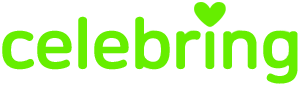
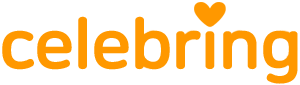
#2 셀럽 페이지 1차

Changed region(s): [[0.0, 0.1882, 1.0, 0.9882], [0.63, 0.0235, 0.78, 0.3294]]

diff --git a/src/pages/Celeb.js b/src/pages/Celeb.js
@@ -1,0 +1,151 @@
+import React, { useEffect, useState } from 'react';
+
+import { CelebAvatar } from '../components/CelebItem';
+import { Anchor, Tabs } from 'antd';
+
+const Celeb = (props) => {
+    const topRef = React.useRef(null);
+    const [targetOffset, setTargetOffset] = useState();
+    useEffect(() => {
+        setTargetOffset(topRef.current?.clientHeight);
+    }, []);
+
+    const celebs = props.list ? props.list : [
+        {
+            url:'https://pbs.twimg.com/profile_images/912222837938589697/_OWluI2j_400x400.jpg',
+            name: '비투비',
+        }, 
+        {
+            url:'https://pbs.twimg.com/media/FufPaNIWwAMmApz?format=jpg',
+            name: '육성재',
+        }, 
+        {
+            url:'https://pbs.twimg.com/profile_images/912222837938589697/_OWluI2j_400x400.jpg',
+            name: '비투비',
+        }, 
+        {
+            url:'https://pbs.twimg.com/media/FufPaNIWwAMmApz?format=jpg',
+            name: '육성재',
+        }, 
+        {
+            url:'https://pbs.twimg.com/profile_images/912222837938589697/_OWluI2j_400x400.jpg',
+            name: '비투비',
+        }, 
+        {
+            url:'https://pbs.twimg.com/media/FufPaNIWwAMmApz?format=jpg',
+            name: '육성재',
+        }, 
+    ];
+
+    const anchorItems = [
+        {
+            key: '1',
+            href: '#1',
+            title: 'ㄱ',
+        },
+        {
+            key: '2',
+            href: '#2',
+            title: 'ㄴ',
+        },
+        {
+            key: '3',
+            href: '#3',
+            title: 'ㄷ',
+        },
+        {
+            key: '4',
+            href: '#4',
+            title: 'ㄹ',
+        },
+        {
+            key: '5',
+            href: '#5',
+            title: 'ㅁ',
+        },
+        {
+            key: '6',
+            href: '#6',
+            title: 'ㅂ',
+        }
+    ];
+
+    const tabItems = [
+        {
+            key: 'group',
+            label: '그룹',
+            children: 
+                <React.Fragment>
+                    <div style={{padding: 20}}>
+                        <Anchor 
+                            direction="horizontal" 
+                            items={anchorItems} 
+                            offsetTop={50}
+                            targetOffset={targetOffset}
+                            style={{paddingTop: 30, background: '#fff'}}/>
+                    </div>
+                    <div>
+                        <div className="celeb-items" id="1">
+                            {celebs.map(celeb => 
+                                <div className="celeb-item">
+                                    <CelebAvatar useLike={true} url={celeb.url} name={celeb.name}/>
+                                </div>
+                            )}
+                        </div>
+                        <div className="celeb-items" id="2">
+                            {celebs.map(celeb => 
+                                <div className="celeb-item">
+                                    <CelebAvatar useLike={true} url={celeb.url} name={celeb.name}/>
+                                </div>
+                            )}
+                        </div>
+                        <div className="celeb-items" id="3">
+                            {celebs.map(celeb => 
+                                <div className="celeb-item">
+                                    <CelebAvatar useLike={true} url={celeb.url} name={celeb.name}/>
+                                </div>
+                            )}
+                        </div>
+                        <div className="celeb-items" id="4">
+                            {celebs.map(celeb => 
+                                <div className="celeb-item">
+                                    <CelebAvatar useLike={true} url={celeb.url} name={celeb.name}/>
+                                </div>
+                            )}
+                        </div>
+                        <div className="celeb-items" id="5">
+                            {celebs.map(celeb => 
+                                <div className="celeb-item">
+                                    <CelebAvatar useLike={true} url={celeb.url} name={celeb.name}/>
+                                </div>
+                            )}
+                        </div>
+                        <div className="celeb-items" id="6">
+                            {celebs.map(celeb => 
+                                <div className="celeb-item">
+                                    <CelebAvatar useLike={true} url={celeb.url} name={celeb.name}/>
+                                </div>
+                            )}
+                        </div>
+                    </div>
+                </React.Fragment>,
+        },
+        {
+            key: 'solo',
+            label: '솔로',
+            children: '',
+        },
+    ];
+
+
+    return (
+        <div className="celeb-list-wrap">
+            <div className="celeb-title">
+                다양한 셀럽을 만나보세요
+            </div>
+            <Tabs items={tabItems} ref={topRef}/>
+        </div>
+    )
+}
+
+export default Celeb;

diff --git a/src/components/CelebItem.js b/src/components/CelebItem.js
@@ -1,18 +1,39 @@
 import React from 'react';
 
+import { HeartFilled } from '@ant-design/icons';
 import { Avatar, Rate } from 'antd';
 import { PlusOutlined, StarFilled } from '@ant-design/icons';
 import { Link } from 'react-router-dom';
 import { Swiper, SwiperSlide } from 'swiper/react';
 import { FreeMode } from 'swiper';
 
-const Celeb = (props) => {
+const mainColor = process.env.REACT_APP_MAIN_COLOR;
+
+const CelebAvatar = (props) => {
     const url = props.url ? props.url : 'https://pbs.twimg.com/profile_images/912222837938589697/_OWluI2j_400x400.jpg';
-    
+    const name = props.name ? props.name : '비투비';
+    const useLike = props.useLike != null ? props.useLike : false;
+    const like = props.like ? props.like : 1;
+
     return (
-        <Link to={'/character'}>
-            <Avatar size={80} src={url} style={defaultStyle}></Avatar>
-        </Link>
+        <React.Fragment>
+            <Link to={'/character'}>
+                <div className="celeb-avatar">
+                    <Avatar size={80} src={url} style={defaultStyle}></Avatar>
+                    <span className="celeb-name">{name}</span>
+                </div>
+            </Link>
+            {useLike ?
+                <div className="celeb-like">
+                    <Rate 
+                        character={<HeartFilled />} 
+                        count={1} 
+                        defaultValue={like}
+                        style={{color: mainColor}}
+                    />
+                </div>
+            : null}
+        </React.Fragment>
     );
 };
 
@@ -20,8 +41,10 @@ const CelebList = (props) => {
     const celebs = props.list ? props.list : [{url:'https://pbs.twimg.com/profile_images/912222837938589697/_OWluI2j_400x400.jpg'}, {url:'https://pbs.twimg.com/media/FufPaNIWwAMmApz?format=jpg'}];
     return (
         <React.Fragment>
-            {celebs.map(celeb => <Celeb url={celeb.url}/>)}
-            <Avatar size={80} icon={<PlusOutlined/>} style={defaultStyle}/>
+            {celebs.map(celeb => <CelebAvatar url={celeb.url}/>)}
+            <Link to={'/celeb'}>
+                <Avatar className="celeb-plus-button" size={80} icon={<PlusOutlined/>} style={defaultStyle}/>
+            </Link>
         </React.Fragment>
     );
 };
@@ -29,22 +52,28 @@ const CelebList = (props) => {
 const CelebSwiper = (props) => {
     const celebs = props.list ? props.list : [
         {
-            url:'https://pbs.twimg.com/profile_images/912222837938589697/_OWluI2j_400x400.jpg'
+            url:'https://pbs.twimg.com/profile_images/912222837938589697/_OWluI2j_400x400.jpg',
+            name: '비투비',
         }, 
         {
-            url:'https://pbs.twimg.com/media/FufPaNIWwAMmApz?format=jpg'
+            url:'https://pbs.twimg.com/media/FufPaNIWwAMmApz?format=jpg',
+            name: '육성재',
         }, 
         {
-            url:'https://pbs.twimg.com/profile_images/912222837938589697/_OWluI2j_400x400.jpg'
+            url:'https://pbs.twimg.com/profile_images/912222837938589697/_OWluI2j_400x400.jpg',
+            name: '비투비',
         }, 
         {
-            url:'https://pbs.twimg.com/media/FufPaNIWwAMmApz?format=jpg'
+            url:'https://pbs.twimg.com/media/FufPaNIWwAMmApz?format=jpg',
+            name: '육성재',
         }, 
         {
-            url:'https://pbs.twimg.com/profile_images/912222837938589697/_OWluI2j_400x400.jpg'
+            url:'https://pbs.twimg.com/profile_images/912222837938589697/_OWluI2j_400x400.jpg',
+            name: '비투비',
         }, 
         {
-            url:'https://pbs.twimg.com/media/FufPaNIWwAMmApz?format=jpg'
+            url:'https://pbs.twimg.com/media/FufPaNIWwAMmApz?format=jpg',
+            name: '육성재',
         }, 
     ];
     
@@ -54,13 +83,13 @@ const CelebSwiper = (props) => {
         spaceBetween={10}
         freeMode={true}
         modules={[FreeMode]}
-        className="mySwiper"
+        className="celeb-swiper"
         style={{height: 'auto'}}
         >
             {celebs.map(celeb => 
-                <SwiperSlide className="celeb-swiper-item"><Celeb url={celeb.url}/></SwiperSlide>
+                <SwiperSlide className="celeb-swiper-item"><CelebAvatar url={celeb.url} name={celeb.name}/></SwiperSlide>
             )}
-            <SwiperSlide className="celeb-swiper-item"><Avatar size={80} icon={<PlusOutlined/>} style={defaultStyle}/></SwiperSlide>
+            <SwiperSlide className="celeb-swiper-item"><Link to={'/celeb'}><Avatar className="celeb-plus-button" size={80} icon={<PlusOutlined/>} style={defaultStyle}/></Link></SwiperSlide>
         </Swiper>
     )
 }
@@ -94,4 +123,4 @@ const defaultStyle = {
     marginRight: '5px',
 };
 
-export { Celeb, CelebList, CelebSwiper, CelebFav }
+export { CelebAvatar, CelebList, CelebSwiper, CelebFav }

diff --git a/src/styles/style.scss b/src/styles/style.scss
@@ -1,6 +1,7 @@
 @import url(../fonts/font.css);
 @import "./variable.scss";
 @import "./common.scss";
+@import "./color.scss";
 
 /* antD */
 .site-layout-content {
@@ -35,6 +36,71 @@
     }
     .celeb-swiper-item {
         width: auto;
+    }
+}
+
+/* celeb */
+.celeb-plus-button {
+    background-color: $color-main;
+}
+.celeb-avatar {
+    display: flex;
+    flex-direction: column;
+    align-items: center;
+    span {
+        margin-right: 0!important;
+    }
+    .celeb-name {
+        font-size: $font-s;
+        margin: 5px 0;
+    }
+}
+.celeb-swiper {
+    .swiper-wrapper {
+        gap: 10px;
+        * {
+            margin-right: 0!important;
+        }
+    }
+}
+.celeb-list-wrap {
+    .celeb-title {
+        margin: 10px 0 30px;
+        font-size: $font-l;
+        font-weight: 600;
+    }
+    .celeb-items {
+        display: flex;
+        flex-wrap: wrap;
+        margin: auto;
+        width: 550px;
+        @media(max-width: 550px) {
+            width: 440px;
+        }
+        @media(max-width: 440px) {
+            width: 330px;
+        }
+        @media(max-width: 330px) {
+            width: 220px;
+        }
+        .celeb-item {
+            flex-basis: 110px;
+            justify-content: center;
+            position: relative;
+        }
+    }
+}
+.celeb-like {
+    display: inline-block;
+    position: absolute;
+    top: -5px;
+    right: 5px;
+    margin: 5px;
+    .ant-rate {
+        font-size: 25px;
+    }
+    ul, li, div {
+        display: flex;
     }
 }
 

diff --git a/src/App.js b/src/App.js
@@ -9,6 +9,7 @@ import Event from './pages/Event';
 import EventForm from './pages/EventForm';
 import MyPage from './pages/MyPage';
 import { LoginPage } from './pages/Login';
+import Celeb from './pages/Celeb';
 
 function App() {
   return (
@@ -23,6 +24,9 @@ function App() {
           <Switch>
             <Route path="/main" exact>
               <Main/>
+            </Route>
+            <Route path="/celeb" exact>
+              <Celeb/>
             </Route>
             <Route path="/character" exact>
               <Character/>

diff --git a/src/styles/color.scss b/src/styles/color.scss
@@ -1,0 +1,12 @@
+.celeb-avatar:hover {
+    color: $color-light;
+}
+
+
+.ant-tabs .ant-tabs-tab:hover
+, .ant-tabs .ant-tabs-tab.ant-tabs-tab-active .ant-tabs-tab-btn {
+    color: $color-main!important;
+}
+.ant-tabs .ant-tabs-ink-bar {
+    background-color: $color-main;
+}

diff --git a/src/styles/variable.scss b/src/styles/variable.scss
@@ -4,8 +4,9 @@ $height-footer: 95px;
 $height-main: calc(100% - #{$height-footer});
 
 /* color */
-$color-main: yellowgreen;
+$color-main: #ff9800;
 $color-default: #000;
+$color-light: lighten($color-main, 20%);
 
 /* responsive web size */
 $max-width: 600px;
